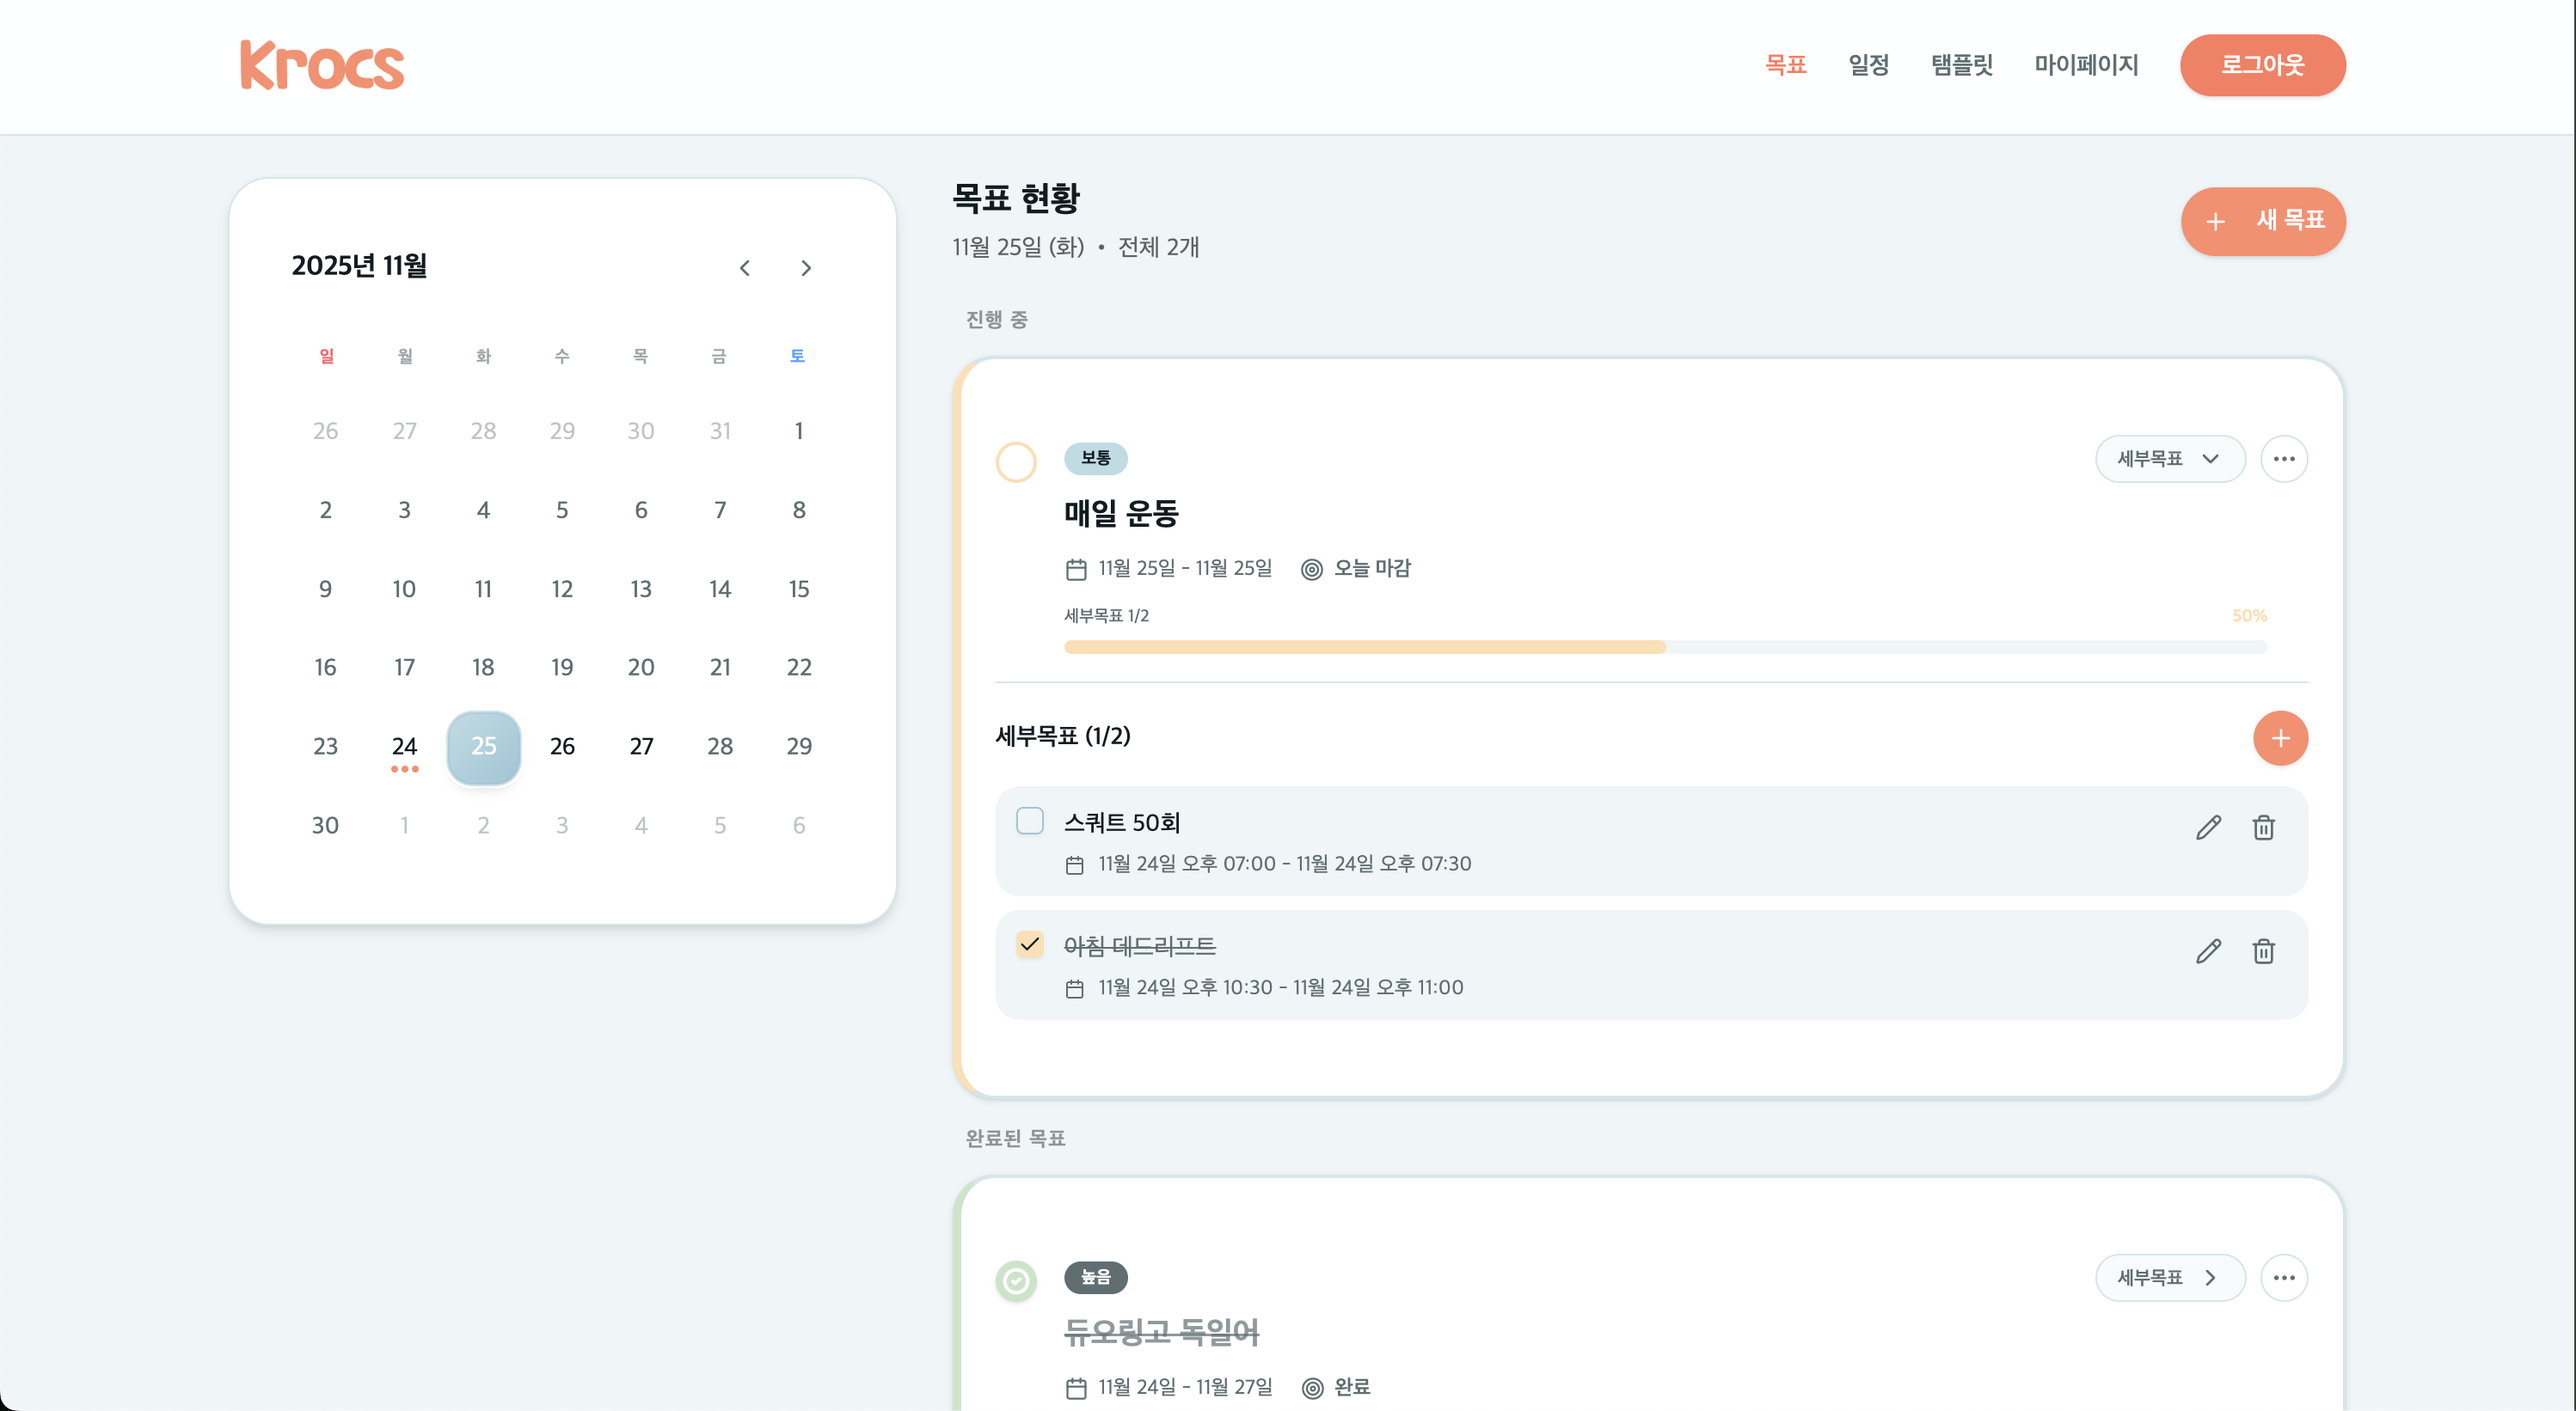
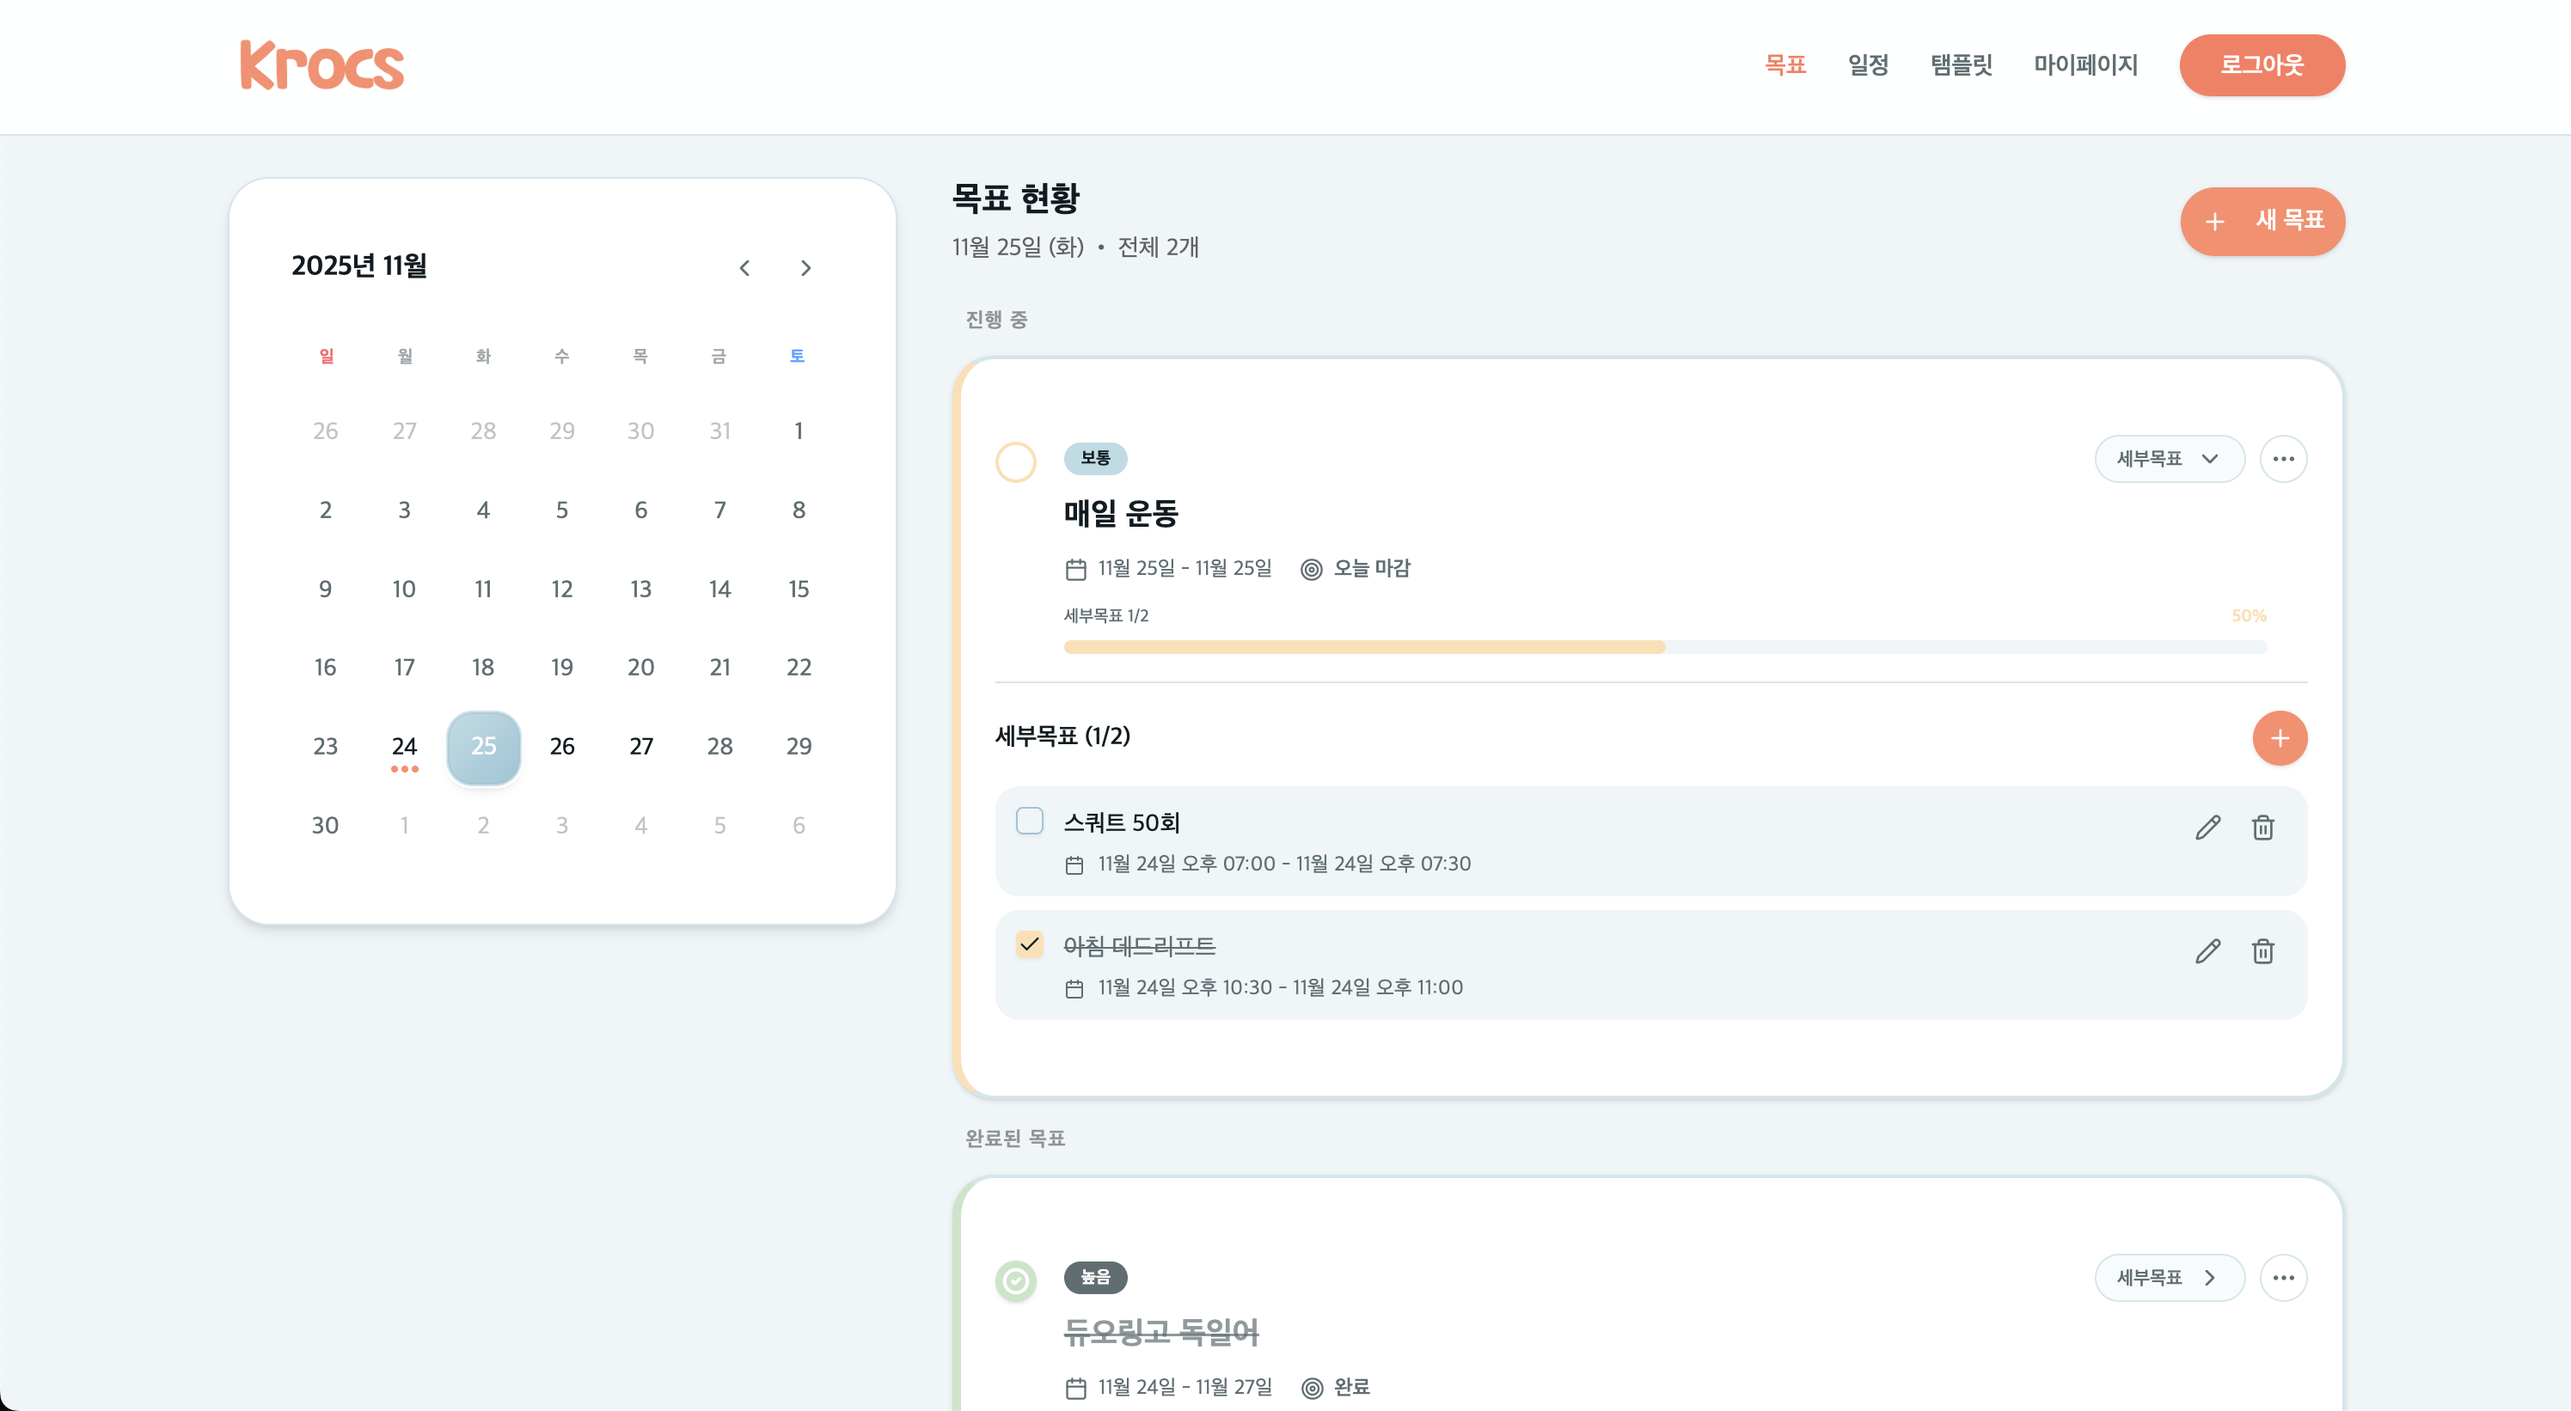
[chore] 랜딩페이지 기능 부분 디자인 수정

diff --git a/components/landing/feature-section.tsx b/components/landing/feature-section.tsx
@@ -1,166 +1,119 @@
 "use client"
 
-import type React from "react"
-
 import Image from "next/image"
-import { Card, CardContent } from "@/components/ui/card"
-import { MessageSquare, RefreshCw, Calendar, Bookmark, Users } from "lucide-react"
-import { useEffect, useRef, useState } from "react"
+import { useState } from "react"
+import { Card } from "@/components/ui/card"
+import type { LucideIcon } from "lucide-react"
+import { Bookmark, Calendar, MessageSquare, RefreshCw } from "lucide-react"
 
-const features = [
+type Feature = {
+  icon: LucideIcon
+  title: string
+  description: string
+  image: string
+}
+
+const features: Feature[] = [
   {
-    icon: MessageSquare,
-    title: "복기 카드",
-    description: "일정 종료 후 자동 피드백",
-    image: "/landing/images/app-feed.png",
-  },
-  {
-    icon: RefreshCw,
-    title: "회복 루프",
-    description: "일정 실패 시 즉시 대안 제시",
-    image: "/landing/images/app-routine.png",
+    icon: Bookmark,
+    title: "목표 기능",
+    description: "장·단기 목표를 한 곳에서 관리하고 진행도를 한눈에 확인",
+    image: "/landing/images/goal.png",
   },
   {
     icon: Calendar,
-    title: "리듬 기반 추천",
-    description: "집중 패턴 분석 후 시간 블록 제안",
-    image: "/landing/images/app-calendar.png",
+    title: "일정 기능",
+    description: "목표와 소목표를 일정 타임라인으로 연결해 실제 하루·주간 계획 수립",
+    image: "/landing/images/plan.png",
   },
   {
-    icon: Bookmark,
-    title: "루틴 추적",
-    description: "연속 실행일·감정 기록으로 지속성 강화",
-    image: "/landing/images/app-routine.png",
+    icon: RefreshCw,
+    title: "템플릿 기능",
+    description: "자주 쓰는 목표·일정을 템플릿으로 저장하고, 한 번에 새 목표로 생성",
+    image: "/landing/images/template.png",
   },
   {
-    icon: Users,
-    title: "공유 기능",
-    description: "친구와 루틴 공유, 소셜 책임감 형성",
-    image: "/landing/images/app-settings.png",
+    icon: MessageSquare,
+    title: "회고 기능",
+    description: "하루·주간 회고로 실행 결과와 감정을 기록하고, 나만의 패턴을 분석",
+    image: "/landing/images/mypage.png",
   },
 ]
 
 export function FeatureSection() {
-  const scrollRef = useRef<HTMLDivElement>(null)
-  const [isDragging, setIsDragging] = useState(false)
-  const [startX, setStartX] = useState(0)
-  const [scrollLeft, setScrollLeft] = useState(0)
-
-  useEffect(() => {
-    const scrollContainer = scrollRef.current
-    if (!scrollContainer) return
-
-    const autoScroll = () => {
-      const cardWidth = scrollContainer.querySelector(".feature-card")?.clientWidth || 300
-      const gap = 24 // gap-6
-      const scrollAmount = cardWidth + gap
-      const maxScroll = scrollContainer.scrollWidth - scrollContainer.clientWidth
-      const currentScroll = scrollContainer.scrollLeft
-
-      if (currentScroll >= maxScroll - 10) {
-        scrollContainer.scrollTo({ left: 0, behavior: "smooth" })
-      } else {
-        scrollContainer.scrollTo({ left: currentScroll + scrollAmount, behavior: "smooth" })
-      }
-    }
-
-    const interval = setInterval(autoScroll, 7000)
-    return () => clearInterval(interval)
-  }, [])
-
-  const handleMouseDown = (e: React.MouseEvent) => {
-    if (!scrollRef.current) return
-    setIsDragging(true)
-    setStartX(e.pageX - scrollRef.current.offsetLeft)
-    setScrollLeft(scrollRef.current.scrollLeft)
-  }
-
-  const handleMouseMove = (e: React.MouseEvent) => {
-    if (!isDragging || !scrollRef.current) return
-    e.preventDefault()
-    const x = e.pageX - scrollRef.current.offsetLeft
-    const walk = (x - startX) * 2
-    scrollRef.current.scrollLeft = scrollLeft - walk
-  }
-
-  const handleMouseUp = () => {
-    setIsDragging(false)
-  }
-
-  const handleMouseLeave = () => {
-    setIsDragging(false)
-  }
-
-  const handleTouchStart = (e: React.TouchEvent) => {
-    if (!scrollRef.current) return
-    setIsDragging(true)
-    setStartX(e.touches[0].pageX - scrollRef.current.offsetLeft)
-    setScrollLeft(scrollRef.current.scrollLeft)
-  }
-
-  const handleTouchMove = (e: React.TouchEvent) => {
-    if (!isDragging || !scrollRef.current) return
-    const x = e.touches[0].pageX - scrollRef.current.offsetLeft
-    const walk = (x - startX) * 2
-    scrollRef.current.scrollLeft = scrollLeft - walk
-  }
-
-  const handleTouchEnd = () => {
-    setIsDragging(false)
-  }
+  const [activeIndex, setActiveIndex] = useState(0)
+  const activeFeature = features[activeIndex]
 
   return (
-    <section id="features" className="py-16 md:py-24 bg-muted/30">
-      <div className="container mx-auto px-4 overflow-hidden">
-        <div className="text-center mb-12 md:mb-16">
-          <h2 className="text-2xl sm:text-3xl md:text-4xl lg:text-5xl font-bold mb-4 break-keep text-balance">
+    <section id="features" className="bg-muted/30 py-16 md:py-24">
+      <div className="container mx-auto px-4">
+        <div className="mb-12 text-center md:mb-16">
+          <p className="text-xs font-semibold uppercase tracking-[0.4em] text-muted-foreground">Krocs Features</p>
+          <h2 className="mt-3 text-2xl font-bold leading-tight break-keep text-balance sm:text-3xl md:text-4xl lg:text-5xl">
             Krocs가 제공하는 시간 루프 기능
           </h2>
+          <p className="mx-auto mt-4 max-w-2xl text-sm text-muted-foreground sm:text-base">
+            계획-실행-복기 흐름을 잇는 핵심 기능을 카드로 확인하고, 우측에서 실제 화면 미리보기를 살펴보세요.
+          </p>
         </div>
 
-        <div
-          ref={scrollRef}
-          className="overflow-x-auto scrollbar-hide cursor-grab active:cursor-grabbing flex justify-start"
-          style={{
-            scrollbarWidth: "none",
-            msOverflowStyle: "none",
-            WebkitOverflowScrolling: "touch",
-          }}
-          onMouseDown={handleMouseDown}
-          onMouseMove={handleMouseMove}
-          onMouseUp={handleMouseUp}
-          onMouseLeave={handleMouseLeave}
-          onTouchStart={handleTouchStart}
-          onTouchMove={handleTouchMove}
-          onTouchEnd={handleTouchEnd}
-        >
-          <div className="flex gap-4 md:gap-6 px-[15vw] md:px-8 pb-4">
+        <div className="grid items-stretch gap-8 lg:grid-cols-[minmax(0,0.95fr)_minmax(0,1.55fr)] lg:gap-12">
+          <div className="flex h-full flex-col space-y-3 lg:max-w-md">
             {features.map((feature, index) => {
+              const isActive = index === activeIndex
               return (
-                <Card
-                  key={index}
-                  className="feature-card bg-white w-[70vw] sm:w-[260px] md:w-[300px] flex-shrink-0 shadow-sm border border-gray-100"
+                <button
+                  key={feature.title}
+                  type="button"
+                  onMouseEnter={() => setActiveIndex(index)}
+                  onFocus={() => setActiveIndex(index)}
+                  onClick={() => setActiveIndex(index)}
+                  className="w-full text-left"
                 >
-                  <CardContent className="p-2.5 md:p-3 flex h-full flex-col items-center text-center gap-2">
-                    <div className="relative w-full aspect-[9/16] rounded-lg overflow-hidden bg-gray-100">
-                      <Image
-                        src={feature.image || "/placeholder.svg"}
-                        alt={feature.title}
-                        fill
-                        sizes="(min-width: 1024px) 300px, (min-width: 640px) 260px, 70vw"
-                        className="object-cover object-top"
-                      />
+                  <Card
+                    className={`flex flex-col gap-3 rounded-3xl border px-5 py-6 sm:py-7 transition-all duration-200 ${
+                      isActive
+                        ? "border-[var(--landing-primary)] bg-white shadow-lg"
+                        : "border-transparent bg-white/70 hover:border-white hover:bg-white"
+                    }`}
+                  >
+                    <div className="flex items-center gap-3">
+                      <div className="rounded-2xl bg-[var(--landing-primary)]/10 p-2 text-[var(--landing-primary)]">
+                        <feature.icon className="size-4" aria-hidden="true" />
+                      </div>
+                      <h3 className="text-lg font-semibold text-foreground">{feature.title}</h3>
                     </div>
-                    <div className="mt-auto pt-2 md:pt-3 flex flex-col gap-1 w-full max-w-[85%]">
-                      <h3 className="text-sm md:text-base font-bold">{feature.title}</h3>
-                      <p className="text-xs md:text-sm text-muted-foreground leading-relaxed break-keep">
-                        {feature.description}
-                      </p>
-                    </div>
-                  </CardContent>
-                </Card>
+                    <p className="text-sm leading-relaxed text-muted-foreground">{feature.description}</p>
+                  </Card>
+                </button>
               )
             })}
+          </div>
+
+          <div className="relative self-stretch">
+            <div className="absolute inset-0 -z-10 rounded-[36px] bg-gradient-to-br from-white/80 via-white/30 to-transparent blur-3xl" />
+            <Card className="flex h-full flex-col rounded-[32px] border border-white/60 bg-white/90 p-4 shadow-2xl backdrop-blur">
+              <div className="flex flex-col gap-1.5 border-b border-border/60 pb-3 px-2 sm:px-4">
+                <div className="flex items-center gap-3">
+                  <div className="rounded-2xl bg-[var(--landing-primary)]/10 p-2 text-[var(--landing-primary)]">
+                    <activeFeature.icon className="size-4" aria-hidden="true" />
+                  </div>
+                  <h3 className="text-lg font-semibold leading-snug text-foreground sm:text-xl">{activeFeature.title}</h3>
+                </div>
+                <p className="text-sm leading-relaxed text-muted-foreground sm:leading-snug">{activeFeature.description}</p>
+              </div>
+
+              <div className="relative mt-4 flex w-full flex-1 items-center justify-center overflow-hidden rounded-[24px] border border-border/60 bg-muted p-4 sm:p-6 min-h-[260px] sm:min-h-[340px]">
+                <Image
+                  src={activeFeature.image}
+                  alt={activeFeature.title}
+                  fill
+                  sizes="(min-width: 1024px) 480px, 90vw"
+                  className="object-cover"
+                  priority
+                />
+              </div>
+            </Card>
           </div>
         </div>
       </div>
